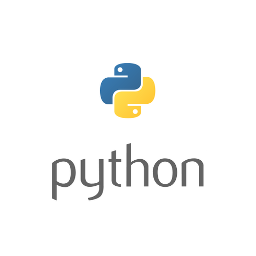
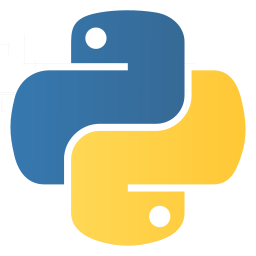
Change python img and add css to .languages

diff --git a/css/styles.css b/css/styles.css
@@ -50,3 +50,13 @@ body {
   background-color: rgb(49, 179, 179);
   font-size: 15px;
 }
+
+h4{
+  text-decoration: underline;
+  padding-left: 50px;
+}
+
+.languages img{
+  float: right;
+  padding-right: 50px;
+}
